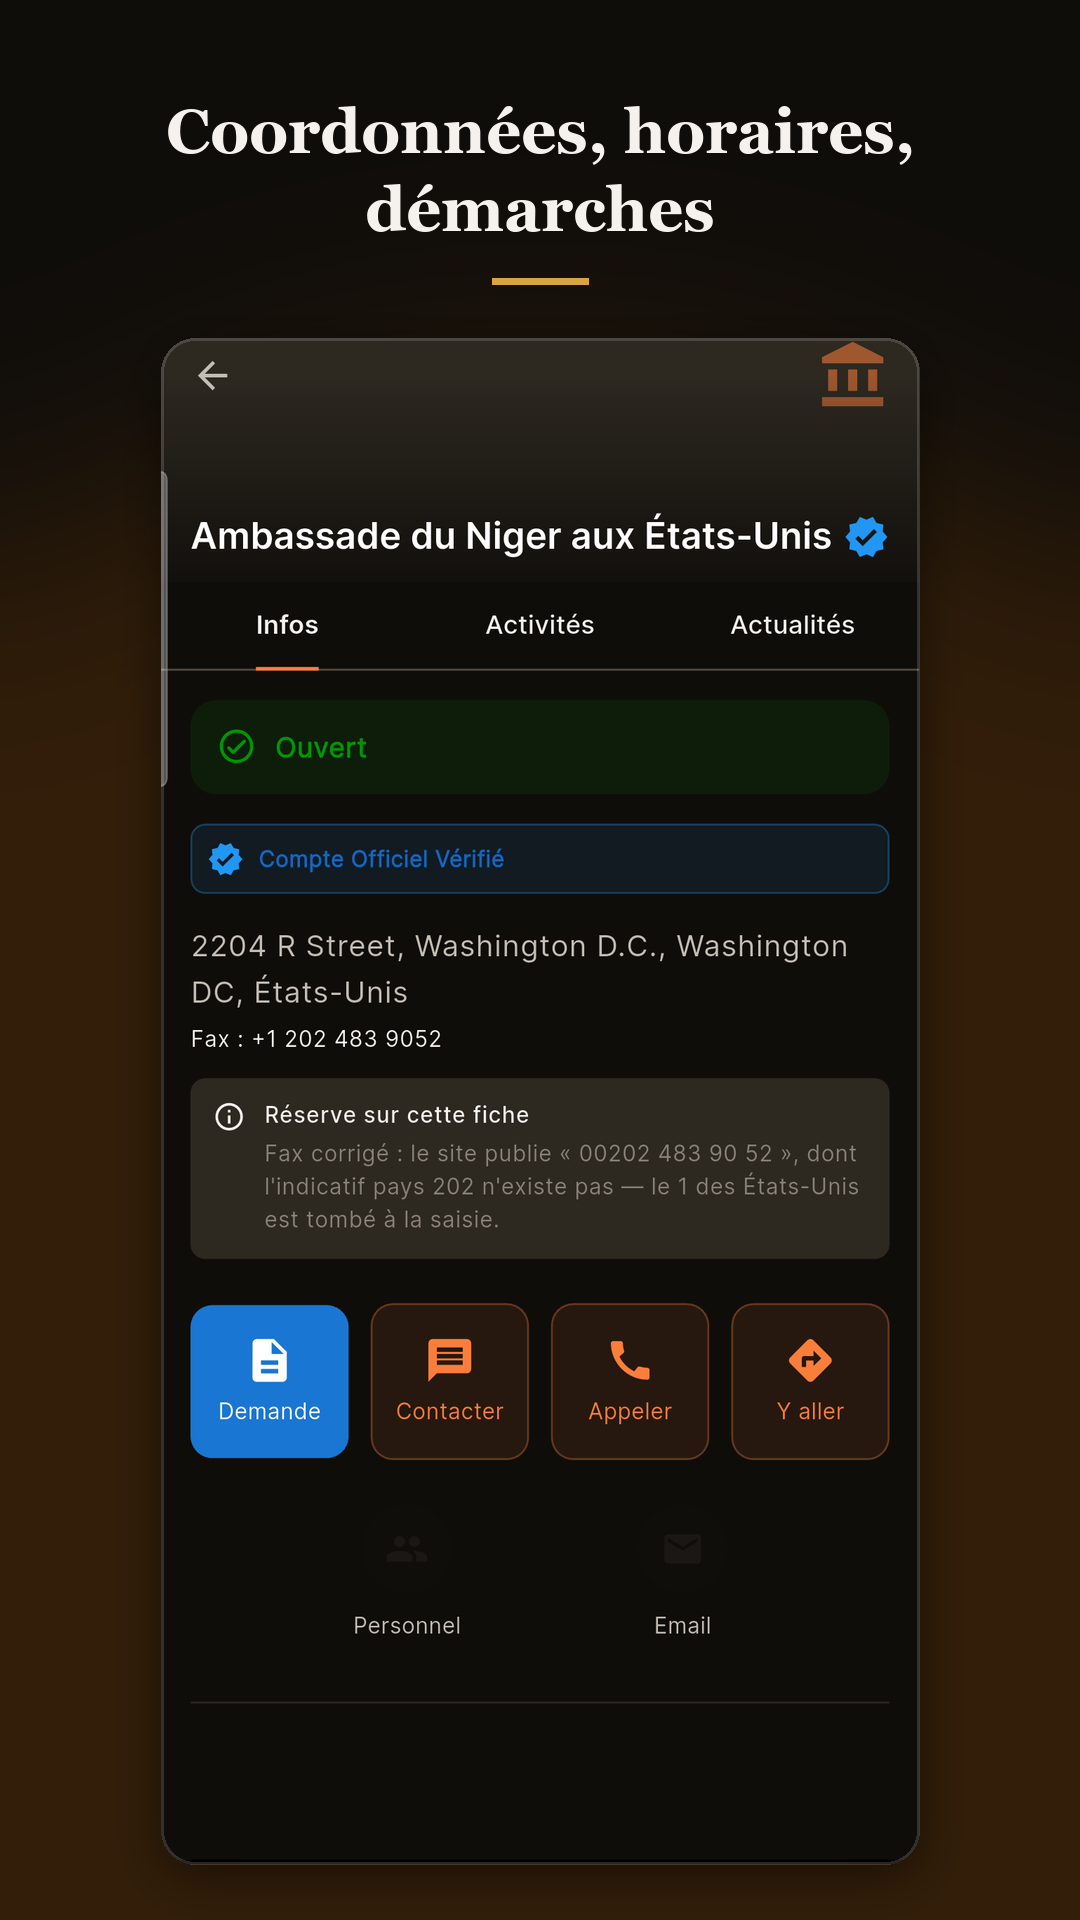
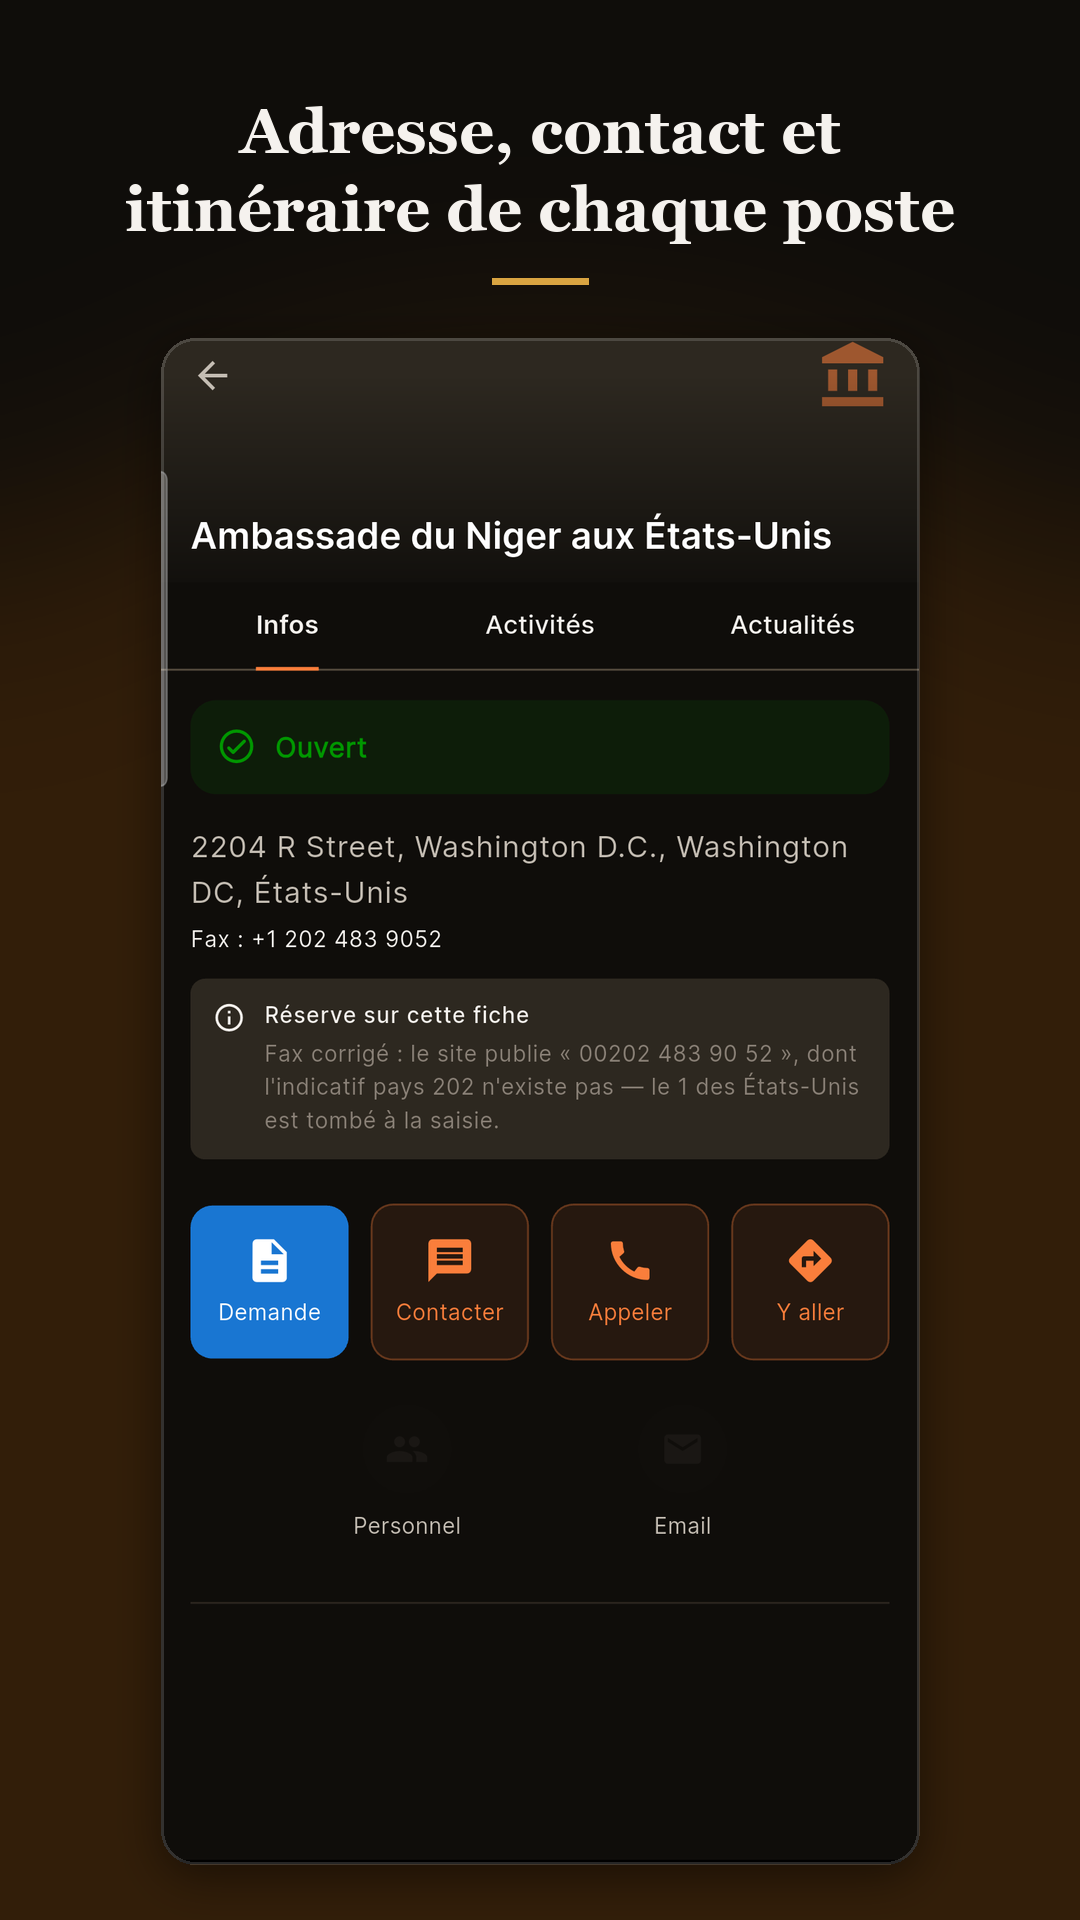
docs(play): capture de la fiche refaite sans le badge retiré, AAB rebâti
`6c7aef7` a mis en sommeil les mentions « officiel / vérifié » de la fiche
d'ambassade. La capture livrée juste avant montrait encore le bandeau
« Compte Officiel Vérifié » et la coche bleue du titre : elle annonçait donc
une interface qui n'existe plus. Reprise sur SM A515F avec un build de l'arbre
fusionné (md5 local et appareil identiques avant la capture).

Sa légende est corrigée aussi : elle promettait « horaires » et « démarches »,
que l'écran ne montre pas — elle dit maintenant ce qu'on y voit.

AAB reconstruit après `1985efc` pour embarquer l'alignement 16 Ko. Vérifié avec
l'outil livré par ce même commit : 16 bibliothèques 64 bits, 0 non conforme.

Les cinq visuels repassent les contrôles Play : 1080×1920, RGB sans alpha,
rapport 1,78 pour une limite à 2,0.

diff --git a/releases/1.2.1+11/BUILD.md b/releases/1.2.1+11/BUILD.md
@@ -7,10 +7,13 @@
 
 Les deux binaires ne sont **pas versionnés** (207 Mo et 167 Mo) :
 
-| Fichier | Taille | Usage |
-|---|---|---|
-| `build/app/outputs/bundle/release/app-release.aab` | 207,5 Mo | **à téléverser sur Play** |
-| `build/app/outputs/flutter-apk/app-release.apk` | 167,3 Mo | distribution directe / test |
+| Fichier | Taille | md5 | Usage |
+|---|---|---|---|
+| `build/app/outputs/bundle/release/app-release.aab` | 208,1 Mo | `ad8684c7a3489945fd28d0d28292598b` | **à téléverser sur Play** |
+| `build/app/outputs/flutter-apk/app-release.apk` | 168,7 Mo | — | distribution directe / test |
+
+Construits après intégration de `1985efc` (alignement 16 Ko) : un binaire
+antérieur à ce commit ne porte pas l'alignement que Play contrôle.
 
 ## Vérifié, pas supposé
 
@@ -55,6 +58,19 @@ téléversement** avec `DD:A6:5C:3E…` ci-dessus. Si elle diffère, c'est
 alias `upload` / `storeFile=../upload-keystore.jks`, ce qui ne correspond pas
 au `key.properties` réel. À corriger une fois la bonne clé identifiée — la
 documentation ne doit pas désigner une clé qui ne signe rien.
+
+
+## Alignement 16 Ko — contrôlé
+
+`tools/verifie_alignement_16k.py` (livré par `1985efc`) sur l'AAB produit :
+
+```
+16 bibliotheque(s) 64 bits examinee(s), 0 non conforme(s)
+```
+
+Toutes à 16 ou 64 Ko, sur `arm64-v8a` et `x86_64`. À rejouer après toute mise
+à jour de plugin embarquant des `.so` préconstruites : c'est là que
+l'alignement se perd, sans avertissement au build.
 
 ## Deux pièges rencontrés en produisant ce build
 
